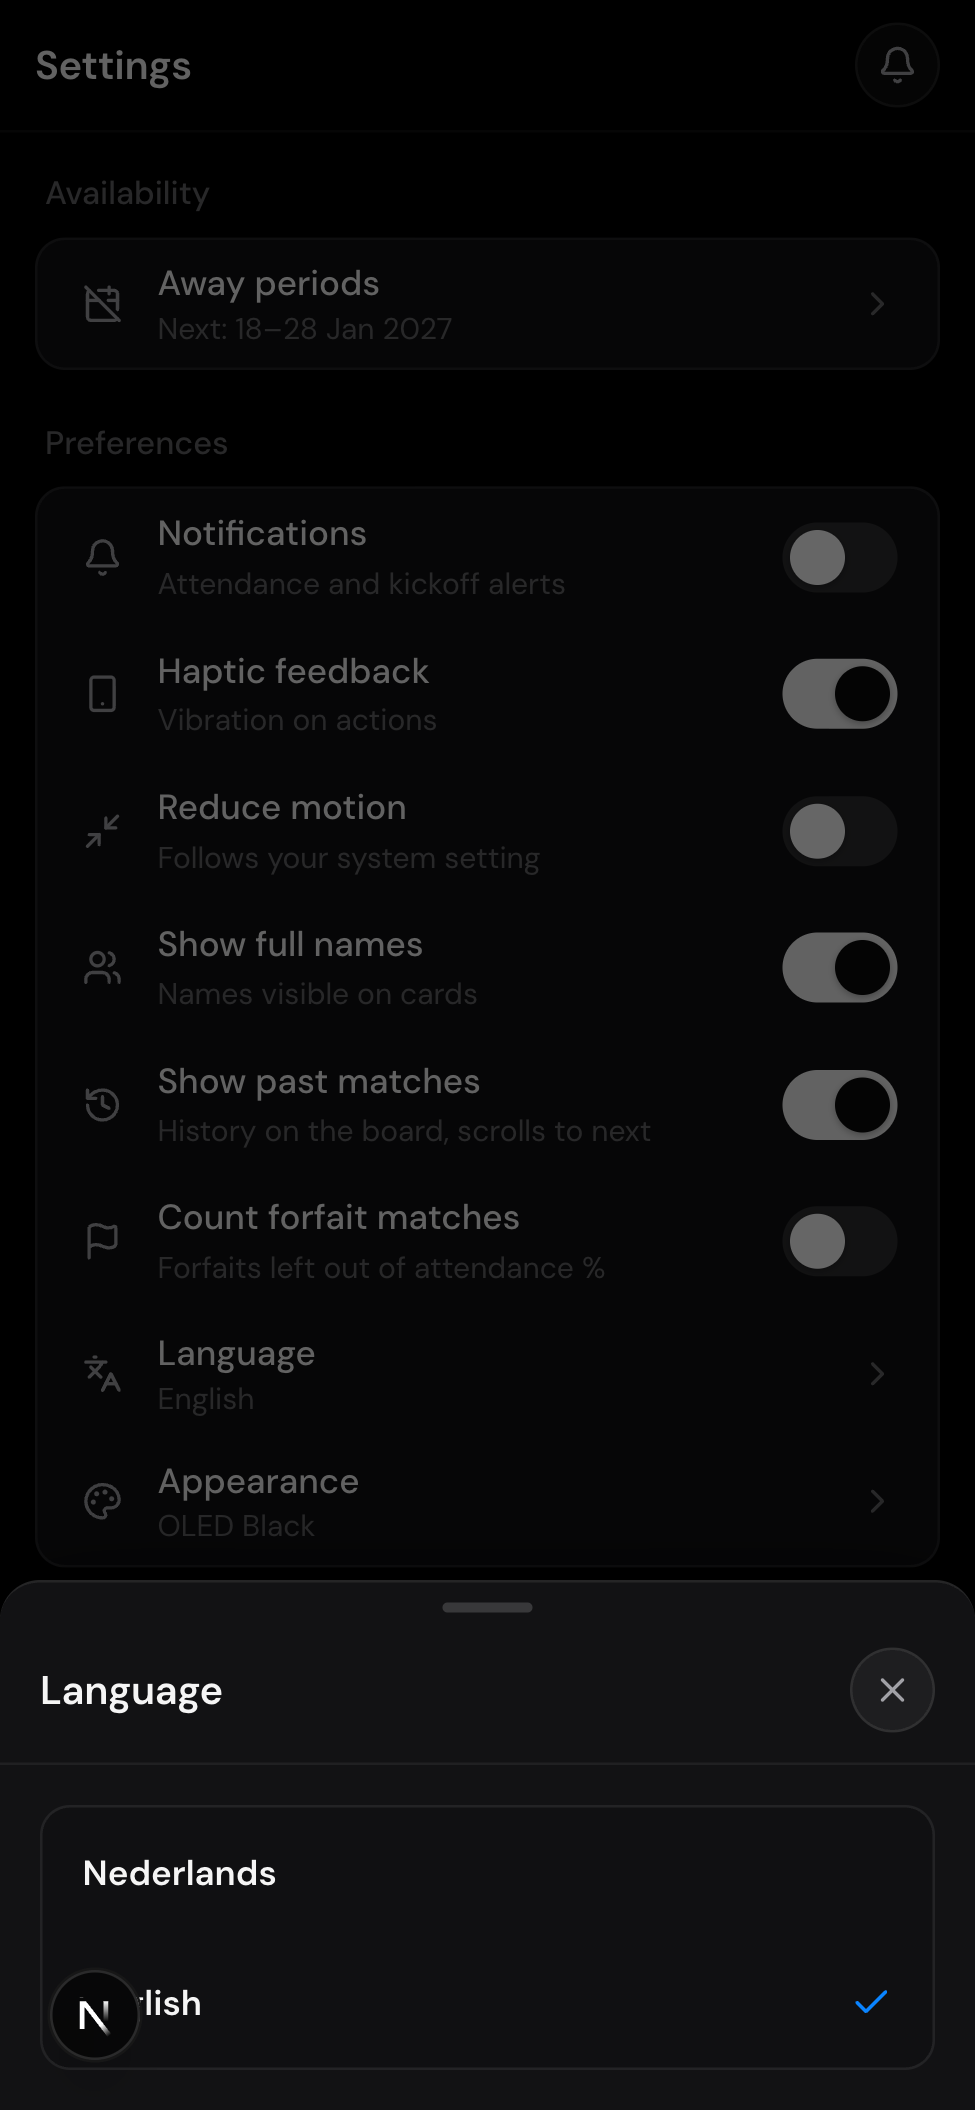
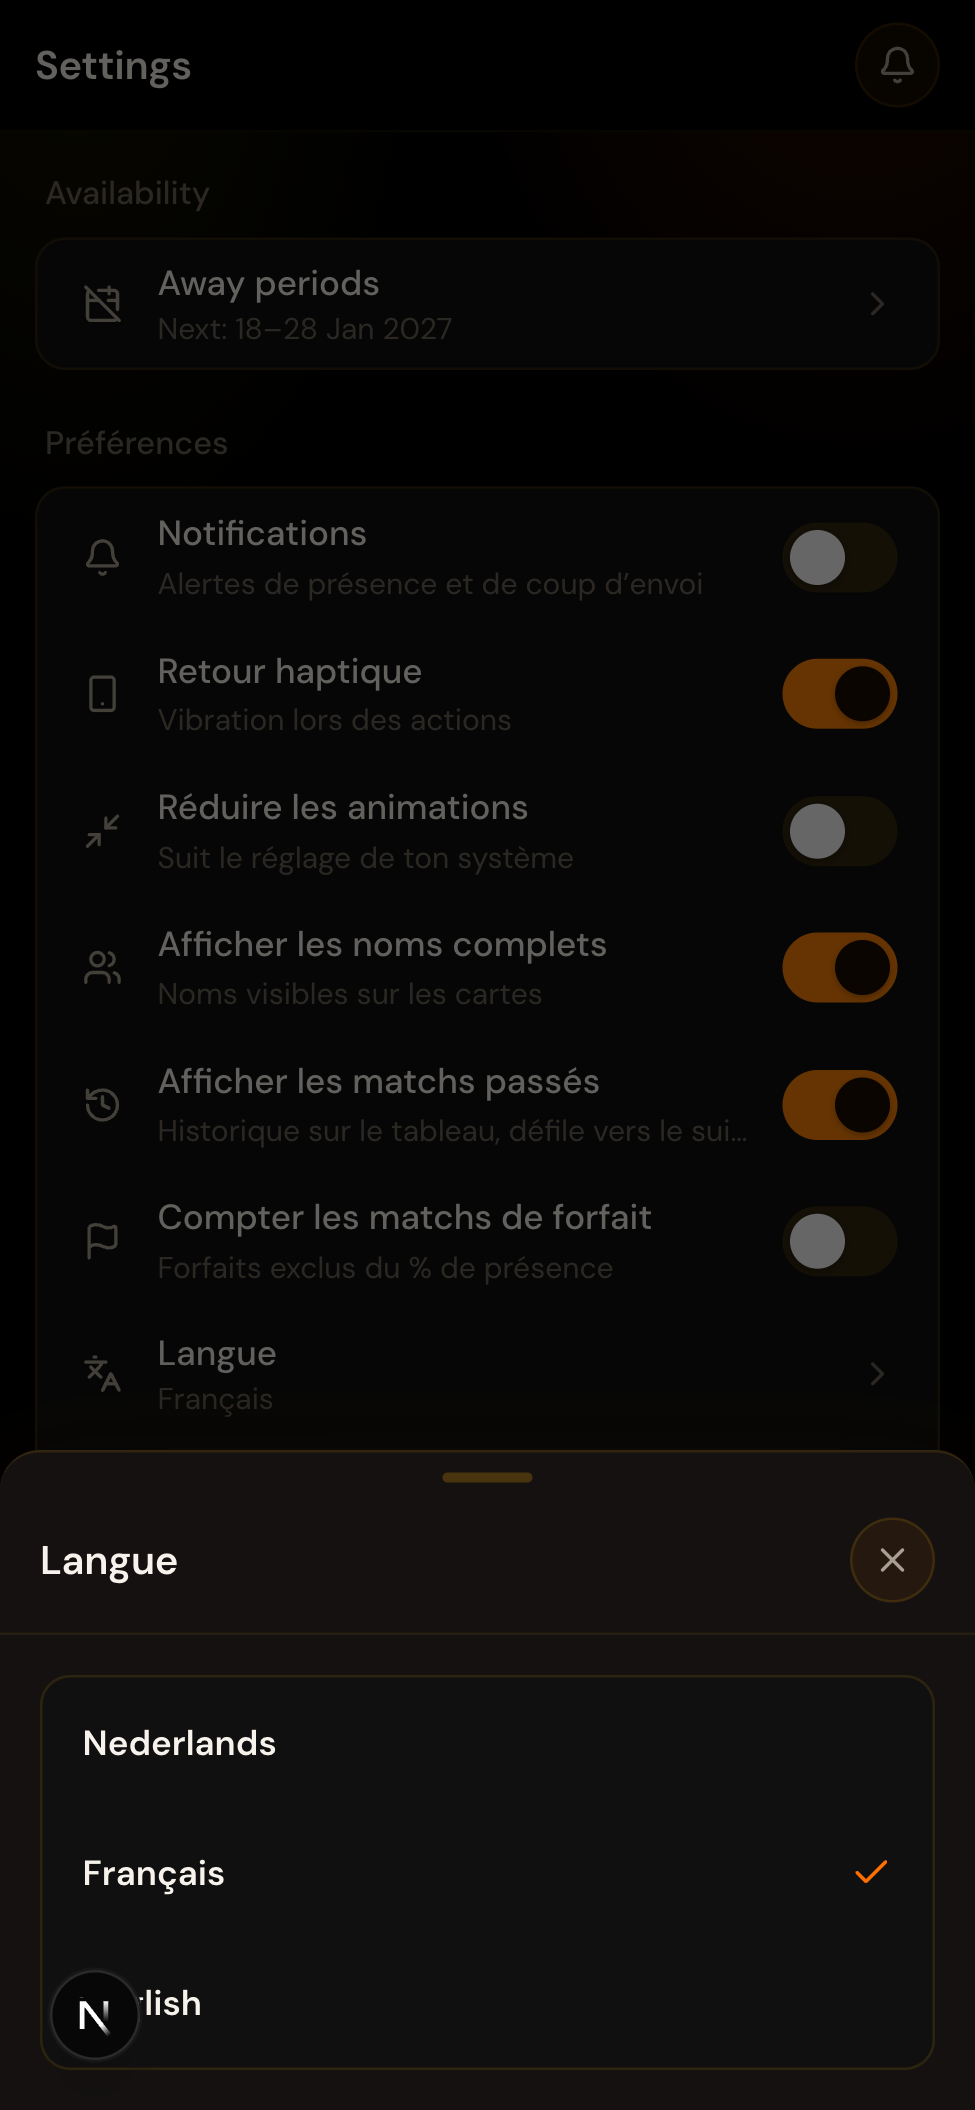
Add French as a third app language
- `Language` type, storage validation and the pre-hydration loader now
  accept `fr` alongside `en`/`nl`; dates format via the `fr-BE` locale.
- Full French dictionary in lib/i18n.ts (nav, settings, profile picker,
  match page, share card).
- Settings language picker shows Nederlands / Français / English;
  the shareable match card shares a French summary when selected.

New screenshots: language picker with three options, Settings in French
and the match share card in French.

Generated by Mistral Vibe.

diff --git a/pwa/lib/i18n.ts b/pwa/lib/i18n.ts
@@ -238,7 +238,119 @@ const nl: Record<string, string> = {
     'mp.notPlayed': 'Nog niet gespeeld',
 };
 
-const dictionaries: Record<Language, Record<string, string>> = { en, nl };
+const fr: Record<string, string> = {
+    // ---- Navigation ----
+    'nav.home': 'Accueil',
+    'nav.stats': 'Stats',
+    'nav.league': 'Compétition',
+    'nav.settings': 'Réglages',
+
+    // ---- Sélecteur de profil ----
+    'ps.whoAreYou': 'Qui es-tu ?',
+    'ps.selectToContinue': 'Choisis ton profil pour continuer.',
+    'ps.search': 'Rechercher des joueurs...',
+    'ps.lastUsed': 'Dernier utilisé',
+    'ps.welcome': 'Bienvenue, {name}',
+    'ps.noPlayersFound': 'Aucun joueur trouvé',
+    'ps.noPlayersDesc': 'Essaie une autre recherche.',
+    'ps.firstPlayerTitle': 'Pas encore de joueurs',
+    'ps.firstPlayerDesc': 'Crée le premier profil pour commencer.',
+    'ps.yourName': 'Ton nom',
+    'ps.namePlaceholder': 'p. ex. Jean Dupont',
+    'ps.teams': 'Équipes',
+    'ps.creating': 'Création…',
+    'ps.createProfile': 'Créer le profil',
+    'ps.enterNameError': 'Entre ton nom.',
+    'ps.createFailed': 'Création impossible',
+
+    // ---- Réglages ----
+    'set.prefs': 'Préférences',
+    'set.teamSection': 'Équipe',
+    'set.appSection': 'App',
+    'set.devSection': 'Développeur',
+    'set.accountSection': 'Compte',
+    'set.notifications': 'Notifications',
+    'set.notifOffSub': 'Alertes de présence et de coup d’envoi',
+    'set.notifOnSub': 'Alertes activées sur ce téléphone',
+    'set.installFirst': 'Installe d’abord Shotten sur ton écran d’accueil',
+    'set.updating': 'Mise à jour…',
+    'set.haptic': 'Retour haptique',
+    'set.hapticSub': 'Vibration lors des actions',
+    'set.fullNames': 'Afficher les noms complets',
+    'set.fullNamesOn': 'Noms visibles sur les cartes',
+    'set.fullNamesOff': 'Présence compacte sur les cartes',
+    'set.pastMatches': 'Afficher les matchs passés',
+    'set.pastOn': 'Historique sur le tableau, défile vers le suivant',
+    'set.pastOff': 'Uniquement les matchs à venir',
+    'set.forfait': 'Compter les matchs de forfait',
+    'set.forfaitOn': 'Les forfaits comptent dans le % de présence',
+    'set.forfaitOff': 'Forfaits exclus du % de présence',
+    'set.appearance': 'Apparence',
+    'set.reduceMotion': 'Réduire les animations',
+    'set.reduceMotionOn': 'Animations et transitions minimisées',
+    'set.reduceMotionOff': 'Suit le réglage de ton système',
+    'set.language': 'Langue',
+    'set.languageSub': 'Textes de l’app et format de date',
+    'set.oledBlack': 'OLED Black',
+    'set.oledDesc': 'Noir pur pour écrans OLED',
+    'set.white': 'Blanc',
+    'set.whiteDesc': 'Thème clair et épuré',
+    'set.mistral': 'Mistral',
+    'set.mistralDesc': 'Noir avec l’orange chaleureux de Mistral',
+    'set.league': 'Compétition par défaut',
+    'set.leagueAuto': 'Choix automatique',
+    'set.leagueAutoSub': 'Préférer Malines si disponible',
+    'set.managePlayers': 'Gérer les joueurs',
+    'set.managePlayersSub': 'Ajouter, modifier ou supprimer des joueurs',
+    'set.versionHistory': 'Historique des versions',
+    'set.viewChangelog': 'Voir le changelog et les mises à jour',
+    'set.updated': 'Mis à jour {when}',
+    'set.newReleases': '{count} nouvelle version | {count} nouvelles versions',
+    'set.version': 'Version {build} · {when}',
+    'set.hiddenAdmin': 'Hidden admin',
+    'set.hiddenAdminSub': 'Dashboard worker pour réseau privé',
+    'set.dataSource': 'Source de données',
+    'set.mockData': 'Données fictives',
+    'set.liveBackend': 'Backend live',
+    'set.offline': 'Hors ligne',
+    'set.connected': 'Connecté',
+    'set.backendStatus': 'État du backend',
+    'set.player': 'Joueur',
+    'set.new': 'Nouveau',
+    'set.signedInSub': 'Connecté sur cet appareil',
+    'set.signOut': 'Se déconnecter',
+    'set.signOutSub': 'Changer de joueur',
+
+    // ---- Page match ----
+    'mp.squad': 'Équipe',
+    'mp.opponentTab': 'Adversaire',
+    'mp.shareCard': 'Carte de match partageable',
+    'mp.directions': 'Itinéraire',
+    'mp.addCalendar': 'Ajouter au calendrier',
+    'mp.opponentPage': 'Page de l’équipe adverse',
+    'mp.viewOnLzv': 'Voir l’adversaire sur LZV Cup',
+    'mp.captain': 'Capitaine',
+    'mp.respondFor': 'Répondre pour d’autres joueurs',
+    'mp.undoForfait': 'Annuler le forfait',
+    'mp.markForfait': 'Marquer comme forfait',
+    'mp.coming': 'Vient',
+    'mp.maybe': 'Peut-être',
+    'mp.notComing': 'Ne vient pas',
+    'mp.noResponse': 'Pas de réponse',
+    'mp.present': 'Présent',
+    'mp.absent': 'Absent',
+    'mp.forfaitNote': 'Ce match ne sera pas joué.',
+    'mp.awayPeriod': 'Période d’absence',
+    'mp.in': 'Présent',
+    'mp.out': 'Absent',
+    'mp.share': 'Partager…',
+    'mp.copyText': 'Copier le texte',
+    'mp.copied': 'Copié !',
+    'mp.copyFailed': 'Copie impossible — essaie de partager',
+    'mp.notPlayed': 'Pas encore joué',
+};
+
+const dictionaries: Record<Language, Record<string, string>> = { en, nl, fr };
 
 /** Translate a key for a language, substituting `{name}` placeholders. */
 export function translateFor(language: Language, key: string, vars?: Record<string, string | number>): string {

diff --git a/pwa/components/Pages/MatchPage/MatchShareSheet.tsx b/pwa/components/Pages/MatchPage/MatchShareSheet.tsx
@@ -5,6 +5,7 @@ import { Calendar, MapPin, Share2, Copy, Check } from 'lucide-react';
 import Sheet from '../../ui/Sheet';
 import { formatMatchDate, formatTimeSafe } from '@/lib/dateUtils';
 import { useLanguage } from '@/lib/i18n';
+import type { Language } from '@/lib/language';
 import { hapticPatterns } from '@/lib/haptic';
 
 interface MatchShareSheetProps {
@@ -44,14 +45,27 @@ export default function MatchShareSheet({
     const dateText = formatMatchDate(dateObj);
     const timeText = formatTimeSafe(dateObj);
 
+    // Response summary + call to action, per language.
+    const shareLines: Record<Language, { counts: string; cta: string }> = {
+        en: {
+            counts: `In: ${counts.in} · Maybe: ${counts.maybe} · Out: ${counts.out} · No response: ${counts.noResponse}`,
+            cta: 'Answer in Shotten!',
+        },
+        nl: {
+            counts: `In: ${counts.in} · Misschien: ${counts.maybe} · Uit: ${counts.out} · Nog geen reactie: ${counts.noResponse}`,
+            cta: 'Geef je antwoord in Shotten!',
+        },
+        fr: {
+            counts: `Présent : ${counts.in} · Peut-être : ${counts.maybe} · Absent : ${counts.out} · Sans réponse : ${counts.noResponse}`,
+            cta: 'Réponds dans Shotten !',
+        },
+    };
+    const line = shareLines[lang] ?? shareLines.en;
     const shareText =
         `⚽ ${matchName}\n` +
         `🗓 ${dateText} · ${timeText}` +
         (location ? `\n📍 ${location}` : '') +
-        `\n\n` +
-        (lang === 'nl'
-            ? `In: ${counts.in} · Misschien: ${counts.maybe} · Uit: ${counts.out} · Nog geen reactie: ${counts.noResponse}\n\nGeef je antwoord in Shotten!`
-            : `In: ${counts.in} · Maybe: ${counts.maybe} · Out: ${counts.out} · No response: ${counts.noResponse}\n\nAnswer in Shotten!`);
+        `\n\n${line.counts}\n\n${line.cta}`;
 
     const handleShare = async () => {
         hapticPatterns.tap();

diff --git a/pwa/lib/language.ts b/pwa/lib/language.ts
@@ -3,7 +3,9 @@
  * utilities like dateUtils can read it).
  */
 
-export type Language = 'en' | 'nl';
+export type Language = 'en' | 'nl' | 'fr';
+
+export const LANGUAGES: Language[] = ['en', 'nl', 'fr'];
 
 export const LANGUAGE_STORAGE_KEY = 'language';
 export const LANGUAGE_EVENT = 'languageChanged';
@@ -13,7 +15,8 @@ export const DEFAULT_LANGUAGE: Language = 'en';
 
 export function getLanguage(): Language {
     if (typeof window === 'undefined' || typeof localStorage === 'undefined') return DEFAULT_LANGUAGE;
-    return localStorage.getItem(LANGUAGE_STORAGE_KEY) === 'nl' ? 'nl' : DEFAULT_LANGUAGE;
+    const stored = localStorage.getItem(LANGUAGE_STORAGE_KEY);
+    return LANGUAGES.includes(stored as Language) ? (stored as Language) : DEFAULT_LANGUAGE;
 }
 
 export function setLanguage(language: Language): void {
@@ -25,5 +28,12 @@ export function setLanguage(language: Language): void {
 
 /** Locale used for date/time formatting, following the language preference. */
 export function dateLocale(): string {
-    return getLanguage() === 'nl' ? 'nl-BE' : 'en-GB';
+    switch (getLanguage()) {
+        case 'nl':
+            return 'nl-BE';
+        case 'fr':
+            return 'fr-BE';
+        default:
+            return 'en-GB';
+    }
 }

diff --git a/pwa/app/layout.tsx b/pwa/app/layout.tsx
@@ -68,7 +68,7 @@ export default function RootLayout({
                                     newMeta.setAttribute('content', color);
                                     document.head.appendChild(newMeta);
                                 }
-                                var lang = localStorage.getItem('language') === 'nl' ? 'nl' : 'en';
+                                var lang = (['nl', 'fr'].indexOf(localStorage.getItem('language')) !== -1) ? localStorage.getItem('language') : 'en';
                                 document.documentElement.setAttribute('lang', lang);
                                 document.documentElement.setAttribute(
                                     'data-reduce-motion',

diff --git a/pwa/components/SettingsView.tsx b/pwa/components/SettingsView.tsx
@@ -55,6 +55,7 @@ const themeLabels: Record<string, string> = {
 
 const LANGUAGE_OPTIONS: { id: Language; native: string }[] = [
     { id: 'nl', native: 'Nederlands' },
+    { id: 'fr', native: 'Français' },
     { id: 'en', native: 'English' },
 ];
 
